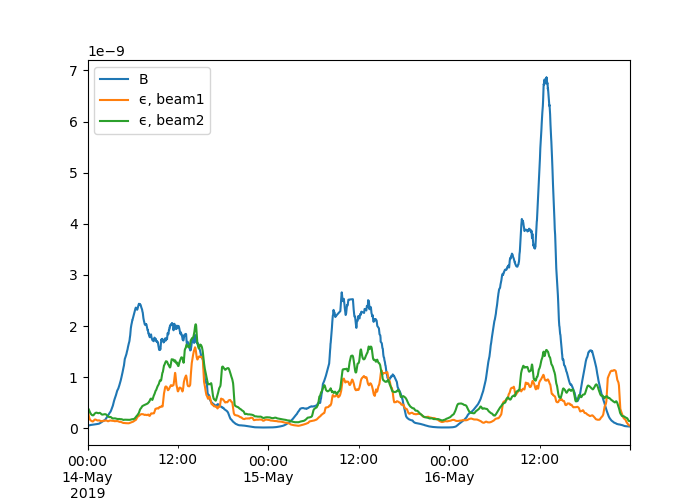
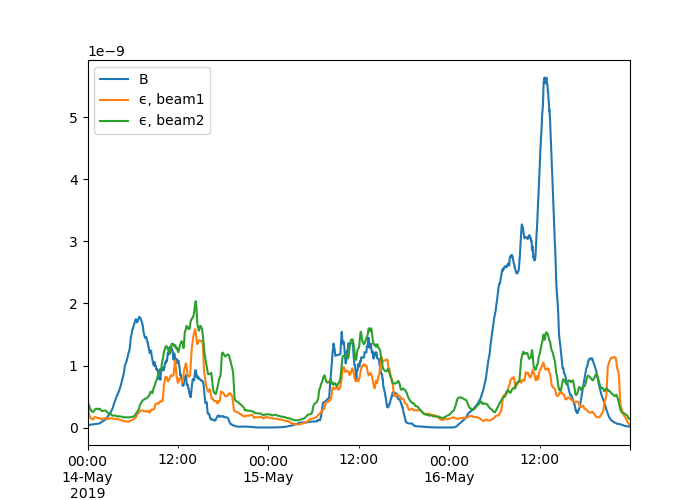
move gamma from hardcoded values to parameters

diff --git a/main.py b/main.py
@@ -79,21 +79,21 @@ def get_termocline_boundaries(temperature_data, threshold=1e-2):
     return boundaries
 
 
-def get_buoyancy_flux(radiation_data, temperature_data, integration_step=0.1, ice_transparency=0.32):
+def get_buoyancy_flux(radiation_data, temperature_data, integration_step=0.1, ice_transparency=0.32, gamma=0.3):
     """
     Calculates buoyancy flux based on the solar radiation data, currently without thermistor chain data
     """
     # sw_alpha = 1.65e-5  # sw_alpha = sw_alpha(0,1,0)
     # beta = sw_alpha * 9.81 / 4.18e6
     # depth05 = 2.2       # m
-    GAMMA = 0.3         # 1/m
+    GAMMA = gamma         # 1/m
     radiation_data = radiation_data.resample('T').mean().dropna()
     radiation_data = radiation_data * ice_transparency / 4.18e6 # 1 W/m2 ≈ 4.18 μmole * m2/s
     temperature_data = temperature_data.resample('T').mean().dropna()
     temperature_data, radiation_data = temperature_data.align(radiation_data, join='inner', axis=0)
 
-    def I(z, radiation_data=radiation_data):
-        return radiation_data * np.exp(-GAMMA*z)
+    def I(z, radiation_data=radiation_data, gamma=gamma):
+        return radiation_data * np.exp(-gamma*z)
 
     def beta(temperature_data, depths_range, z, Tr = 277):
         T = np.interp(z, depths_range, temperature_data)
@@ -104,12 +104,12 @@ def get_buoyancy_flux(radiation_data, temperature_data, integration_step=0.1, ic
         boundaries = get_termocline_boundaries(temperature_data.loc[timestamp, :])
         integral_buoyancy_flux[timestamp] = sum([
             beta(temperature, temperature.index, boundaries["upper"]) *
-                I(boundaries["upper"], radiation_data=radiation_data.loc[timestamp]),
+                I(boundaries["upper"], radiation_data=radiation_data.loc[timestamp], gamma=gamma),
             beta(temperature, temperature.index, boundaries["lower"]) *
-                I(boundaries["lower"], radiation_data=radiation_data.loc[timestamp]),
+                I(boundaries["lower"], radiation_data=radiation_data.loc[timestamp], gamma=gamma),
             -sum(
                 (
-                    beta(temperature, temperature.index, z) * I(z, radiation_data=radiation_data.loc[timestamp])
+                    beta(temperature, temperature.index, z) * I(z, radiation_data=radiation_data.loc[timestamp], gamma=gamma)
                     for z in np.arange(boundaries["upper"], boundaries["lower"], integration_step)
                 )
             ) * integration_step * 2 / (boundaries["lower"] - boundaries["upper"])
@@ -120,7 +120,11 @@ def get_buoyancy_flux(radiation_data, temperature_data, integration_step=0.1, ic
 def main():
     radiation_data = get_radiation_data(START_DATE, END_DATE)
     temperature_data = get_temperature_data('data/T_chain')
-    buoyancy_flux = get_buoyancy_flux(temperature_data=temperature_data, radiation_data=radiation_data)
+    buoyancy_flux = get_buoyancy_flux(
+            temperature_data=temperature_data,
+            radiation_data=radiation_data,
+            gamma=.35,
+    )
     beams = [f"beam{i}" for i in (1,2)]
     fig, ax = plt.subplots(figsize=(7, 5))
     buoyancy_flux.rolling("100T").mean().plot(ax=ax)
